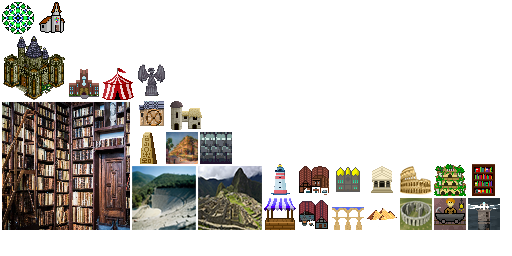
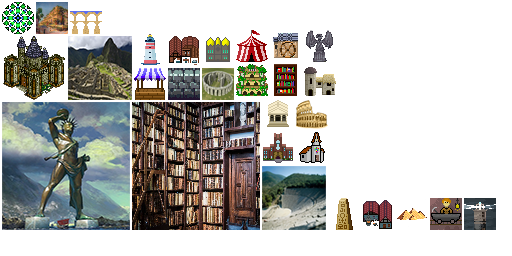
Building: Implement Colossus wonder

diff --git a/core/src/main/java/me/rhin/openciv/game/city/building/type/Colossus.java b/core/src/main/java/me/rhin/openciv/game/city/building/type/Colossus.java
@@ -6,41 +6,39 @@ import me.rhin.openciv.game.city.City;
 import me.rhin.openciv.game.city.building.Building;
 import me.rhin.openciv.game.city.wonders.Wonder;
 import me.rhin.openciv.game.map.tile.Tile;
-import me.rhin.openciv.game.map.tile.TileType;
-import me.rhin.openciv.game.research.type.GuildsTech;
+import me.rhin.openciv.game.map.tile.TileType.TileProperty;
+import me.rhin.openciv.game.research.type.IronWorkingTech;
 import me.rhin.openciv.shared.stat.Stat;
 
-public class MachuPicchu extends Building implements Wonder {
+public class Colossus extends Building implements Wonder {
 
-	public MachuPicchu(City city) {
+	public Colossus(City city) {
 		super(city);
-
+		
 		this.statLine.addValue(Stat.HERITAGE_GAIN, 1);
 		this.statLine.addValue(Stat.GOLD_GAIN, 5);
 	}
 
 	@Override
 	public TextureEnum getTexture() {
-		return TextureEnum.BUILDING_MACHU_PICCHU;
+		return TextureEnum.BUILDING_COLOSSUS;
 	}
 
 	@Override
 	public boolean meetsProductionRequirements() {
 
-		boolean adjMountain = false;
+		boolean nearWater = false;
+		for (Tile tile : city.getTile().getAdjTiles())
+			if (tile.containsTileProperty(TileProperty.WATER))
+				nearWater = true;
 
-		for (Tile adjTile : city.getTile().getAdjTiles()) {
-			if (adjTile.containsTileType(TileType.MOUNTAIN))
-				adjMountain = true;
-		}
-
-		return city.getPlayerOwner().getResearchTree().hasResearched(GuildsTech.class)
-				&& !Civilization.getInstance().getGame().getWonders().isBuilt(getClass()) && adjMountain;
+		return city.getPlayerOwner().getResearchTree().hasResearched(IronWorkingTech.class)
+				&& !Civilization.getInstance().getGame().getWonders().isBuilt(getClass()) && nearWater;
 	}
 
 	@Override
 	public String getDesc() {
-		return "A world wonder of the Medieval\nera.\nCity must adjacent to a mountain.\n\n+1 Heritage\n+5 Gold\n+50% gold from trade";
+		return "A bronze statue of Helios,\nthe Greek God of the Sun.\nMust be built on the coast.\n\n\n+1 Heritage\n+5 Gold\n+1 Trade slot\n25% Gold from trade routes";
 	}
 
 	@Override
@@ -50,12 +48,12 @@ public class MachuPicchu extends Building implements Wonder {
 
 	@Override
 	public float getBuildingProductionCost() {
-		return 300;
+		return 185;
 	}
 
 	@Override
 	public String getName() {
-		return "Machu Picchu";
+		return "Colossus";
 	}
 
 }

diff --git a/server/src/main/java/me/rhin/openciv/server/game/city/building/type/Colossus.java b/server/src/main/java/me/rhin/openciv/server/game/city/building/type/Colossus.java
@@ -5,38 +5,38 @@ import me.rhin.openciv.server.game.city.City;
 import me.rhin.openciv.server.game.city.building.Building;
 import me.rhin.openciv.server.game.city.wonders.Wonder;
 import me.rhin.openciv.server.game.map.tile.Tile;
-import me.rhin.openciv.server.game.map.tile.TileType;
-import me.rhin.openciv.server.game.research.type.GuildsTech;
+import me.rhin.openciv.server.game.map.tile.TileType.TileProperty;
+import me.rhin.openciv.server.game.research.type.IronWorkingTech;
 import me.rhin.openciv.shared.stat.Stat;
 
-public class MachuPicchu extends Building implements Wonder {
+public class Colossus extends Building implements Wonder {
 
-	public MachuPicchu(City city) {
+	public Colossus(City city) {
 		super(city);
-
+		
 		this.statLine.addValue(Stat.HERITAGE_GAIN, 1);
 		this.statLine.addValue(Stat.GOLD_GAIN, 5);
 	}
-
+	
 	@Override
 	public void create() {
 		super.create();
-
+		
 		city.getStatLine().addModifier(Stat.TRADE_GOLD_MODIFIER, 0.5F);
+		city.getPlayerOwner().getStatLine().addValue(Stat.MAX_TRADE_ROUTES, 1);
+		city.getPlayerOwner().updateOwnedStatlines(false);
 	}
 
 	@Override
 	public boolean meetsProductionRequirements() {
-
-		boolean adjMountain = false;
-
-		for (Tile adjTile : city.getTile().getAdjTiles()) {
-			if (adjTile.containsTileType(TileType.MOUNTAIN))
-				adjMountain = true;
-		}
-
-		return city.getPlayerOwner().getResearchTree().hasResearched(GuildsTech.class)
-				&& !Server.getInstance().getInGameState().getWonders().isBuilt(getClass()) && adjMountain;
+		
+		boolean nearWater = false;
+		for (Tile tile : city.getTile().getAdjTiles())
+			if (tile.containsTileProperty(TileProperty.WATER))
+				nearWater = true;
+		
+		return city.getPlayerOwner().getResearchTree().hasResearched(IronWorkingTech.class)
+				&& !Server.getInstance().getInGameState().getWonders().isBuilt(getClass()) && nearWater;
 	}
 
 	@Override
@@ -46,12 +46,12 @@ public class MachuPicchu extends Building implements Wonder {
 
 	@Override
 	public float getBuildingProductionCost() {
-		return 300;
+		return 185;
 	}
 
 	@Override
 	public String getName() {
-		return "Machu Picchu";
+		return "Colossus";
 	}
 
 }

diff --git a/server/src/main/java/me/rhin/openciv/server/game/city/wonders/GameWonders.java b/server/src/main/java/me/rhin/openciv/server/game/city/wonders/GameWonders.java
@@ -2,6 +2,8 @@
 package me.rhin.openciv.server.game.city.wonders;
 import java.util.HashMap;
 
+import me.rhin.openciv.server.game.city.building.Building;
+import me.rhin.openciv.server.game.city.building.type.Colossus;
 import me.rhin.openciv.server.game.city.building.type.GreatLibrary;
 import me.rhin.openciv.server.game.city.building.type.GreatPyramids;
 import me.rhin.openciv.server.game.city.building.type.HangingGardens;
@@ -11,7 +13,7 @@ import me.rhin.openciv.server.game.city.building.type.Stonehenge;
 
 public class GameWonders {
 
-	private HashMap<Class<? extends Wonder>, Boolean> availableWonders;
+	private HashMap<Class<? extends Building>, Boolean> availableWonders;
 
 	public GameWonders() {
 		this.availableWonders = new HashMap<>();
@@ -22,17 +24,18 @@ public class GameWonders {
 		addWonder(StatueOfAres.class);
 		addWonder(Stonehenge.class);
 		addWonder(MachuPicchu.class);
+		addWonder(Colossus.class);
 	}
 
-	private void addWonder(Class<? extends Wonder> clazz) {
+	private void addWonder(Class<? extends Building> clazz) {
 		availableWonders.put(clazz, true);
 	}
 
-	public boolean isBuilt(Class<? extends Wonder> clazz) {
+	public boolean isBuilt(Class<? extends Building> clazz) {
 		return !availableWonders.get(clazz);
 	}
 
-	public void setBuilt(Class<? extends Wonder> clazz) {
+	public void setBuilt(Class<? extends Building> clazz) {
 		availableWonders.put(clazz, false);
 	}
 

diff --git a/core/src/main/java/me/rhin/openciv/game/city/wonders/GameWonders.java b/core/src/main/java/me/rhin/openciv/game/city/wonders/GameWonders.java
@@ -2,6 +2,8 @@ package me.rhin.openciv.game.city.wonders;
 
 import java.util.HashMap;
 
+import me.rhin.openciv.game.city.building.Building;
+import me.rhin.openciv.game.city.building.type.Colossus;
 import me.rhin.openciv.game.city.building.type.GreatLibrary;
 import me.rhin.openciv.game.city.building.type.GreatPyramids;
 import me.rhin.openciv.game.city.building.type.HangingGardens;
@@ -11,7 +13,7 @@ import me.rhin.openciv.game.city.building.type.Stonehenge;
 
 public class GameWonders {
 
-	private HashMap<Class<? extends Wonder>, Boolean> availableWonders;
+	private HashMap<Class<? extends Building>, Boolean> availableWonders;
 
 	public GameWonders() {
 		this.availableWonders = new HashMap<>();
@@ -22,17 +24,18 @@ public class GameWonders {
 		addWonder(StatueOfAres.class);
 		addWonder(Stonehenge.class);
 		addWonder(MachuPicchu.class);
+		addWonder(Colossus.class);
 	}
 
-	private void addWonder(Class<? extends Wonder> clazz) {
+	private void addWonder(Class<? extends Building> clazz) {
 		availableWonders.put(clazz, true);
 	}
 
-	public boolean isBuilt(Class<? extends Wonder> clazz) {
+	public boolean isBuilt(Class<? extends Building> clazz) {
 		return !availableWonders.get(clazz);
 	}
 
-	public void setBuilt(Class<? extends Wonder> clazz) {
+	public void setBuilt(Class<? extends Building> clazz) {
 		availableWonders.put(clazz, false);
 	}
 }

diff --git a/server/src/main/java/me/rhin/openciv/server/game/production/ProducibleItemManager.java b/server/src/main/java/me/rhin/openciv/server/game/production/ProducibleItemManager.java
@@ -15,6 +15,7 @@ import me.rhin.openciv.server.game.city.building.type.Aqueduct;
 import me.rhin.openciv.server.game.city.building.type.Chapel;
 import me.rhin.openciv.server.game.city.building.type.Circus;
 import me.rhin.openciv.server.game.city.building.type.Colosseum;
+import me.rhin.openciv.server.game.city.building.type.Colossus;
 import me.rhin.openciv.server.game.city.building.type.Forge;
 import me.rhin.openciv.server.game.city.building.type.Garden;
 import me.rhin.openciv.server.game.city.building.type.Granary;
@@ -137,6 +138,7 @@ public class ProducibleItemManager implements NextTurnListener {
 		possibleItems.put("Statue Of Ares", new StatueOfAres(city));
 		possibleItems.put("Stonehenge", new Stonehenge(city));
 		possibleItems.put("Machu Picchu", new MachuPicchu(city));
+		possibleItems.put("Colossus", new Colossus(city));
 
 		Server.getInstance().getEventManager().addListener(NextTurnListener.class, this);
 	}

diff --git a/core/src/main/java/me/rhin/openciv/game/production/ProducibleItemManager.java b/core/src/main/java/me/rhin/openciv/game/production/ProducibleItemManager.java
@@ -14,6 +14,7 @@ import me.rhin.openciv.game.city.building.type.Aqueduct;
 import me.rhin.openciv.game.city.building.type.Chapel;
 import me.rhin.openciv.game.city.building.type.Circus;
 import me.rhin.openciv.game.city.building.type.Colosseum;
+import me.rhin.openciv.game.city.building.type.Colossus;
 import me.rhin.openciv.game.city.building.type.Forge;
 import me.rhin.openciv.game.city.building.type.Garden;
 import me.rhin.openciv.game.city.building.type.Granary;
@@ -127,6 +128,7 @@ public class ProducibleItemManager {
 		possibleItems.put("Statue Of Ares", new StatueOfAres(city));
 		possibleItems.put("Stonehenge", new Stonehenge(city));
 		possibleItems.put("Machu Picchu", new MachuPicchu(city));
+		possibleItems.put("Colossus", new Colossus(city));
 
 		// FIXME: There should be a better way to do this than just checking if the
 		// player matches

diff --git a/core/src/main/java/me/rhin/openciv/game/city/building/Building.java b/core/src/main/java/me/rhin/openciv/game/city/building/Building.java
@@ -1,6 +1,8 @@
 package me.rhin.openciv.game.city.building;
 
+import me.rhin.openciv.Civilization;
 import me.rhin.openciv.game.city.City;
+import me.rhin.openciv.game.city.wonders.Wonder;
 import me.rhin.openciv.game.production.ProductionItem;
 import me.rhin.openciv.shared.stat.StatLine;
 import me.rhin.openciv.shared.stat.StatValue;
@@ -53,5 +55,9 @@ public abstract class Building implements ProductionItem {
 
 	public void onBuilt() {
 		built = true;
+		
+		if(this instanceof Wonder) {
+			Civilization.getInstance().getGame().getWonders().setBuilt(getClass());
+		}
 	}
 }

diff --git a/core/src/main/java/me/rhin/openciv/game/city/building/type/GreatLibrary.java b/core/src/main/java/me/rhin/openciv/game/city/building/type/GreatLibrary.java
@@ -28,14 +28,7 @@ public class GreatLibrary extends Building implements SpecialistContainer, Wonde
 	public float getGoldCost() {
 		return -1;
 	}
-
-	@Override
-	public void onBuilt() {
-		super.onBuilt();
-
-		Civilization.getInstance().getGame().getWonders().setBuilt(getClass());
-	}
-
+	
 	@Override
 	public boolean meetsProductionRequirements() {
 		return Civilization.getInstance().getGame().getPlayer().getResearchTree().hasResearched(WritingTech.class)

diff --git a/core/src/main/java/me/rhin/openciv/game/city/building/type/GreatPyramids.java b/core/src/main/java/me/rhin/openciv/game/city/building/type/GreatPyramids.java
@@ -32,13 +32,6 @@ public class GreatPyramids extends Building implements Wonder {
 	}
 
 	@Override
-	public void onBuilt() {
-		super.onBuilt();
-		
-		Civilization.getInstance().getGame().getWonders().setBuilt(getClass());
-	}
-
-	@Override
 	public boolean meetsProductionRequirements() {
 		return city.getPlayerOwner().getResearchTree().hasResearched(MasonryTech.class)
 				&& !Civilization.getInstance().getGame().getWonders().isBuilt(getClass());

diff --git a/server/src/main/java/me/rhin/openciv/server/game/city/building/Building.java b/server/src/main/java/me/rhin/openciv/server/game/city/building/Building.java
@@ -39,6 +39,11 @@ public abstract class Building implements ProductionItem {
 		city.getProducibleItemManager().getPossibleItems().remove(getName());
 		built = true;
 
+		if(this instanceof Wonder) {
+			System.out.println("Server - built wonder");
+			Server.getInstance().getInGameState().getWonders().setBuilt(getClass());
+		}
+		
 		Server.getInstance().getEventManager().fireEvent(new BuildingConstructedEvent(city, this));
 	}
 

diff --git a/core/src/main/java/me/rhin/openciv/game/city/building/type/HangingGardens.java b/core/src/main/java/me/rhin/openciv/game/city/building/type/HangingGardens.java
@@ -28,13 +28,6 @@ public class HangingGardens extends Building implements Wonder {
 	}
 
 	@Override
-	public void onBuilt() {
-		super.onBuilt();
-		
-		Civilization.getInstance().getGame().getWonders().setBuilt(getClass());
-	}
-
-	@Override
 	public boolean meetsProductionRequirements() {
 		return Civilization.getInstance().getGame().getPlayer().getResearchTree().hasResearched(MathematicsTech.class);
 	}

diff --git a/server/src/main/java/me/rhin/openciv/server/game/city/building/type/HangingGardens.java b/server/src/main/java/me/rhin/openciv/server/game/city/building/type/HangingGardens.java
@@ -13,13 +13,7 @@ public class HangingGardens extends Building implements Wonder {
 		super(city);
 
 		this.statLine.addValue(Stat.FOOD_GAIN, 10);
-		this.statLine.addValue(Stat.HERITAGE, 1);
-	}
-
-	@Override
-	public void create() {
-		super.create();
-		Server.getInstance().getInGameState().getWonders().setBuilt(getClass());
+		this.statLine.addValue(Stat.HERITAGE_GAIN, 1);
 	}
 
 	@Override
